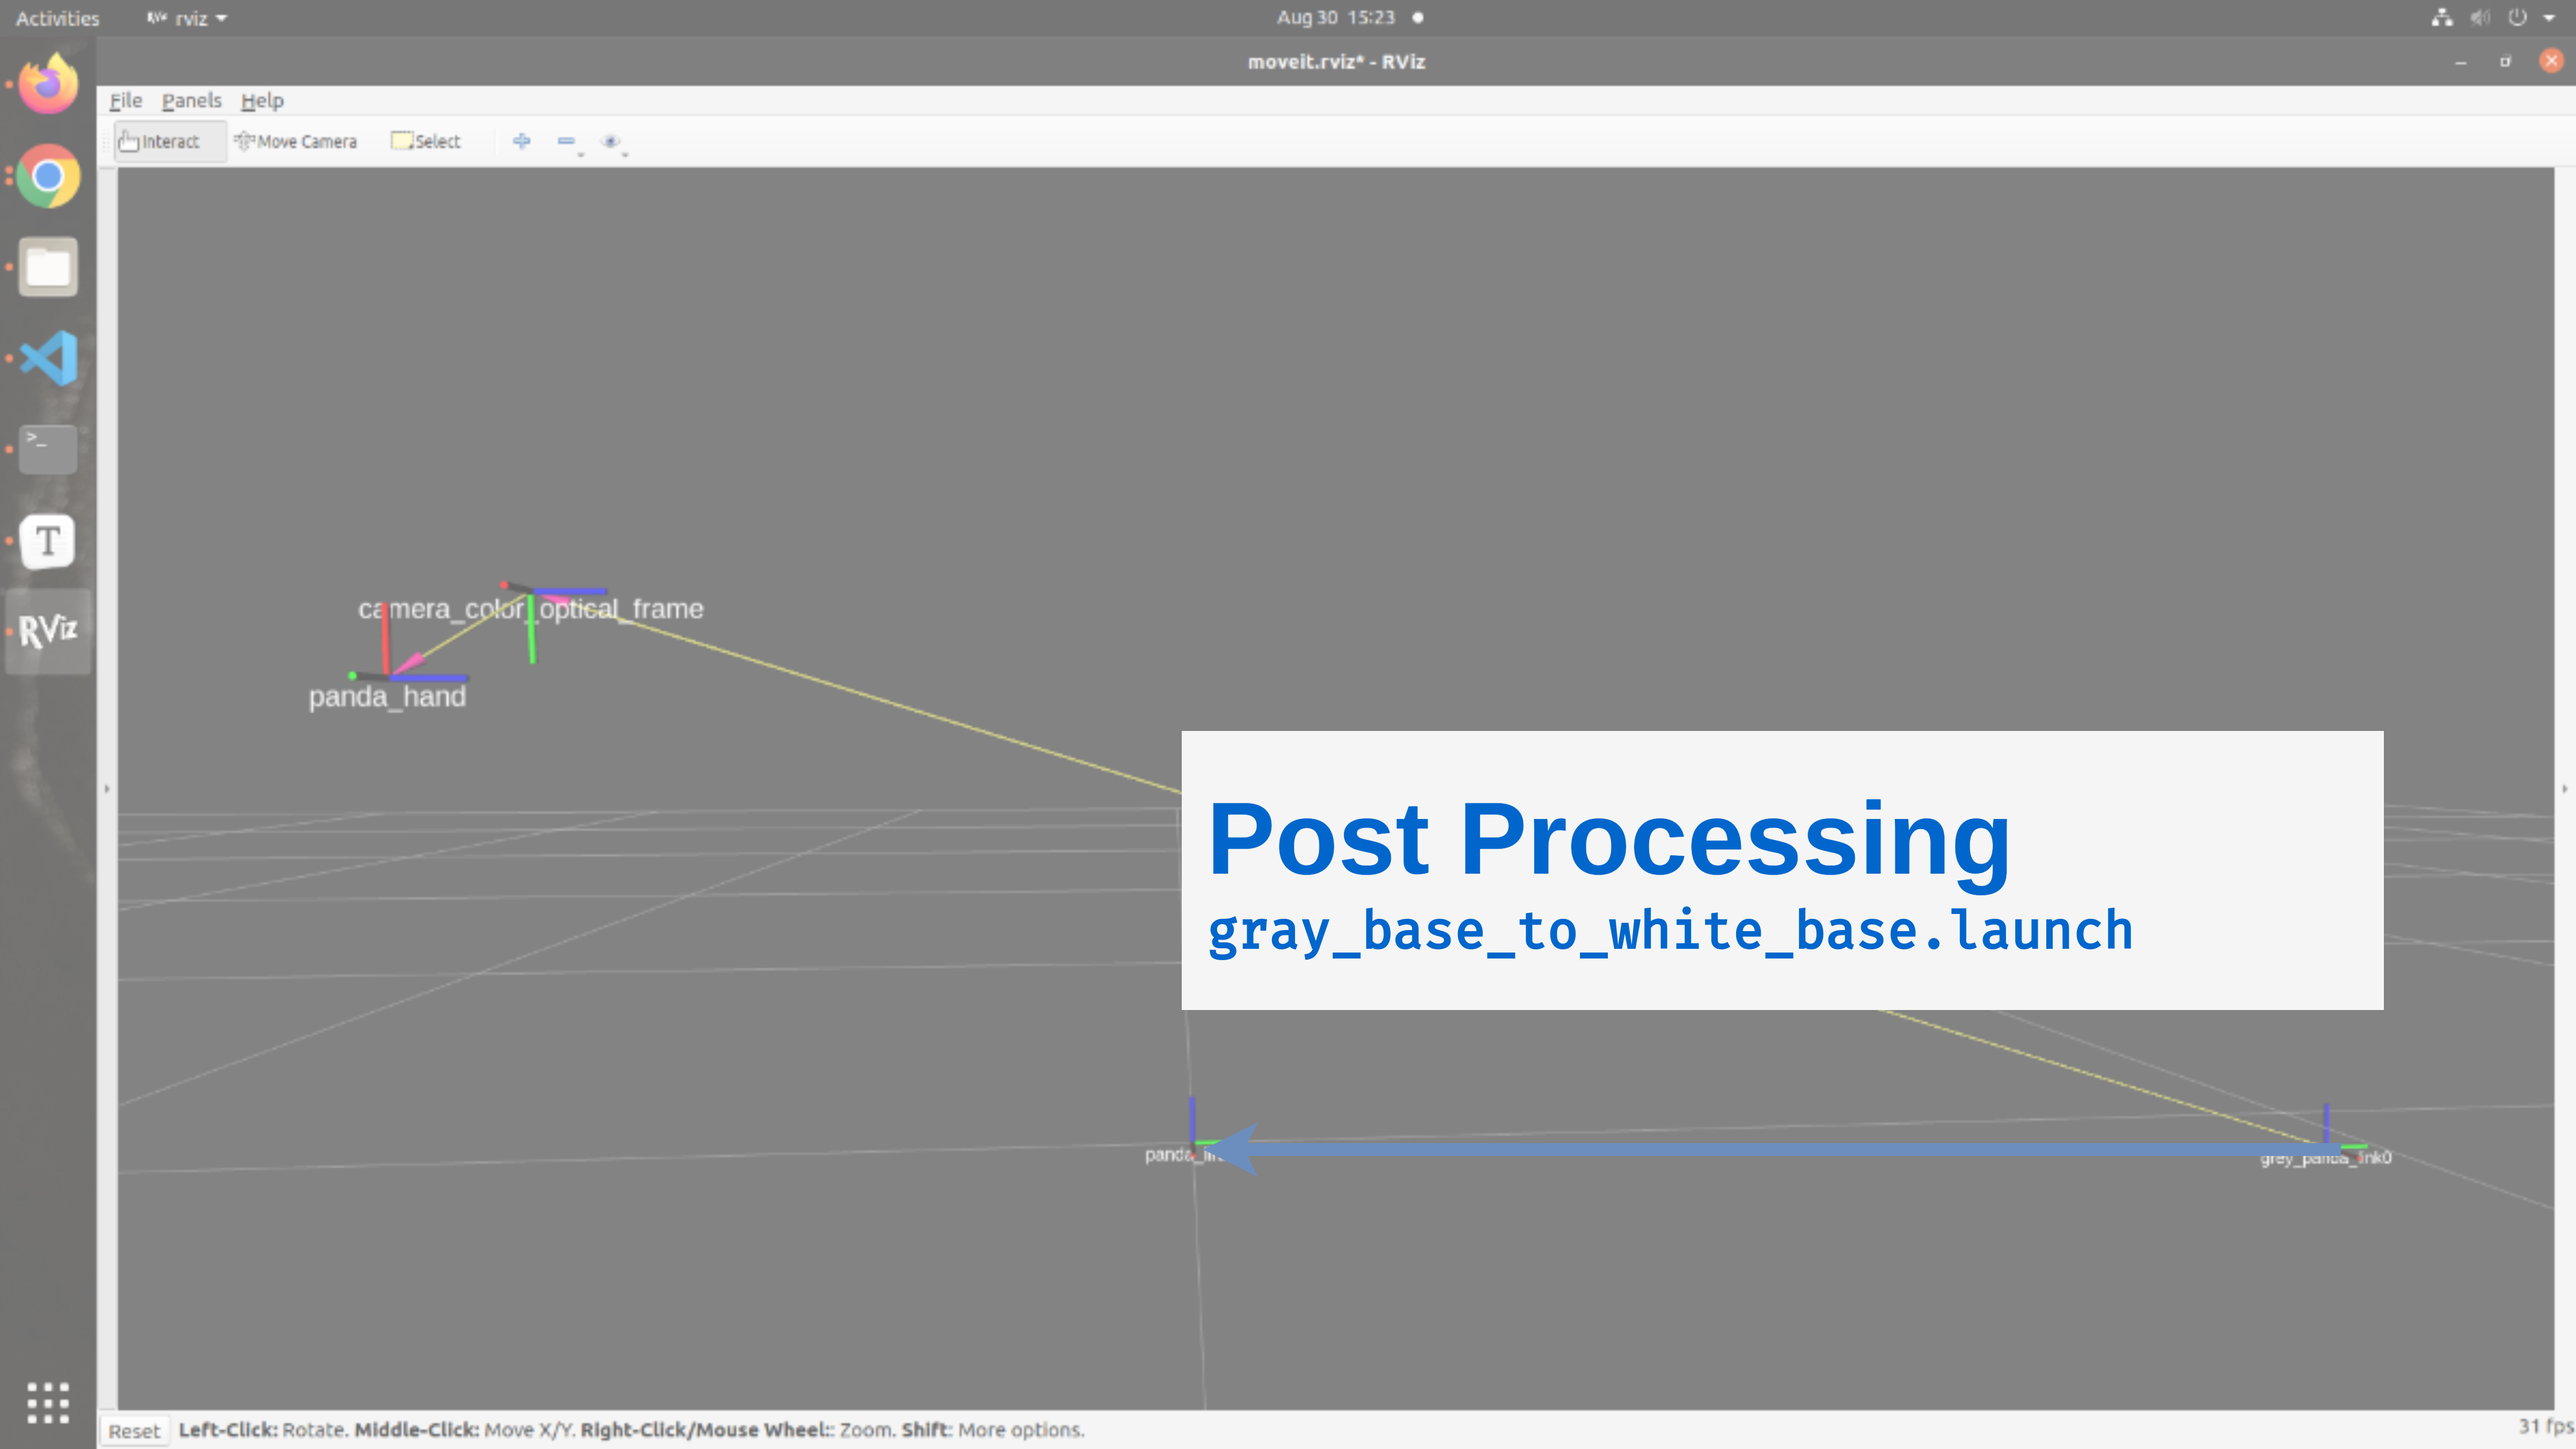
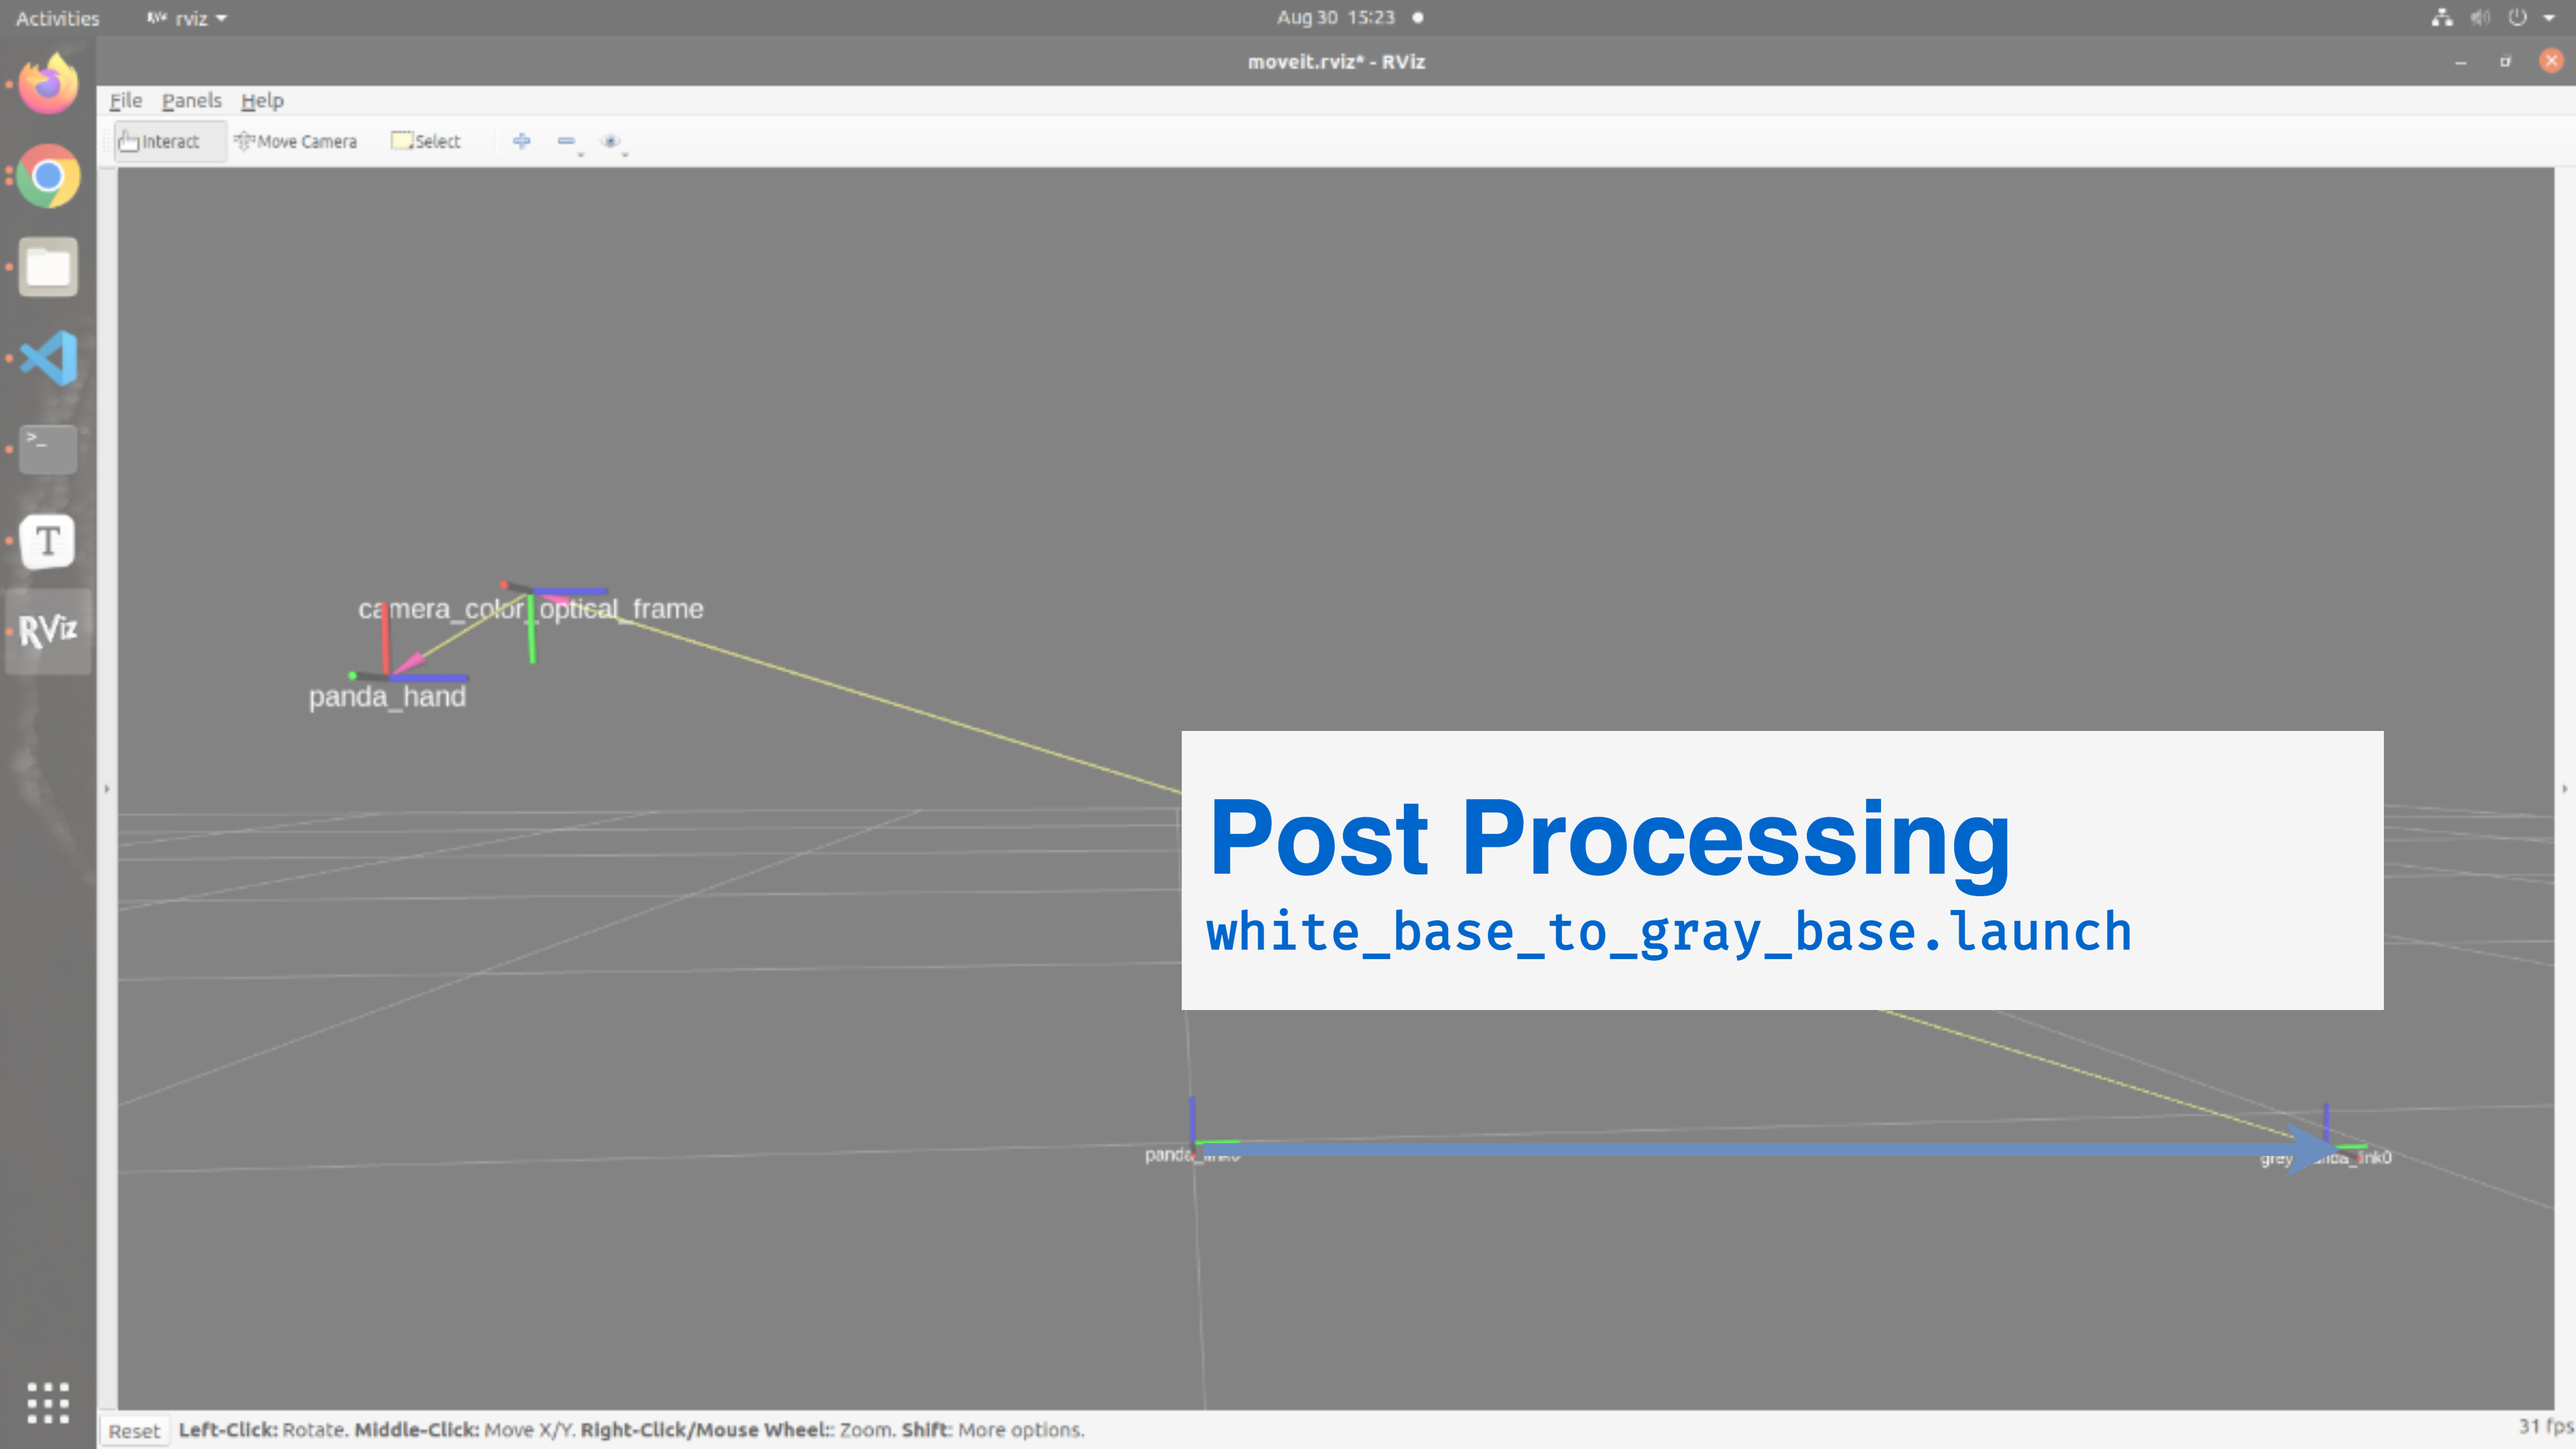
updated sphinx website

diff --git a/docs/source/camera_calibration/index.md b/docs/source/camera_calibration/index.md
@@ -89,13 +89,13 @@ This will generate a launch file called `white_camera_to_gray_base.launch` in th
 ```bash
 roslaunch white_hand_to_white_camera.launch
 roslaunch white_camera_to_gray_base.launch
-python3 generate_launch_file.py --parent "/grey_panda_link0" --child "/panda_link0" --filename "gray_base_to_white_base" --parentName "grey_panda_link0" --childName "white_panda_link0"
+python3 generate_launch_file.py --parent "/panda_link0" --child "/gray_panda_link0" --filename "white_base_to_gray_base" --parentName "white_panda_link0" --childName "gray_panda_link0"
 
 # Optional step to format the launch file
-xmllint --format gray_base_to_white_base.launch --output gray_base_to_white_base.launch
+xmllint --format white_base_to_gray_base.launch --output white_base_to_gray_base.launch
 ```
 
-these commands will generate a launch file called `gray_base_to_white_base.launch` in the current directory which gives us the transformation between the white FR3 base and the gray FP3 base.
+these commands will generate a launch file called `white_base_to_gray_base.launch` in the current directory which gives us the transformation between the white FR3 base and the gray FP3 base.
 
 ```{figure} ../imgs/post_process_step3.png
 :alt: Post Processing Step 3
@@ -104,3 +104,14 @@ these commands will generate a launch file called `gray_base_to_white_base.launc
 :align: center
 Transformation obtained applying the steps above.
 ```
+
+## Deploying the Calibration in the Two Arm Setup
+
+Now that we assume that the white FR3's joint angle has changed, and we want to find the transformation between the gray FP3 base and the camera frame that is rigidly attached to the end-effector of the white FR3. To do this, we first launch two launch files
+
+```bash
+roslaunch white_base_to_gray_base.launch
+roslaunch white_hand_to_white_camera.launch
+```
+
+which creates all the TF transformations required. We can then query TF to obtain the transformation ${}^\mathrm{camera}\mathbf{T}_\mathrm{gray\ base}$.
